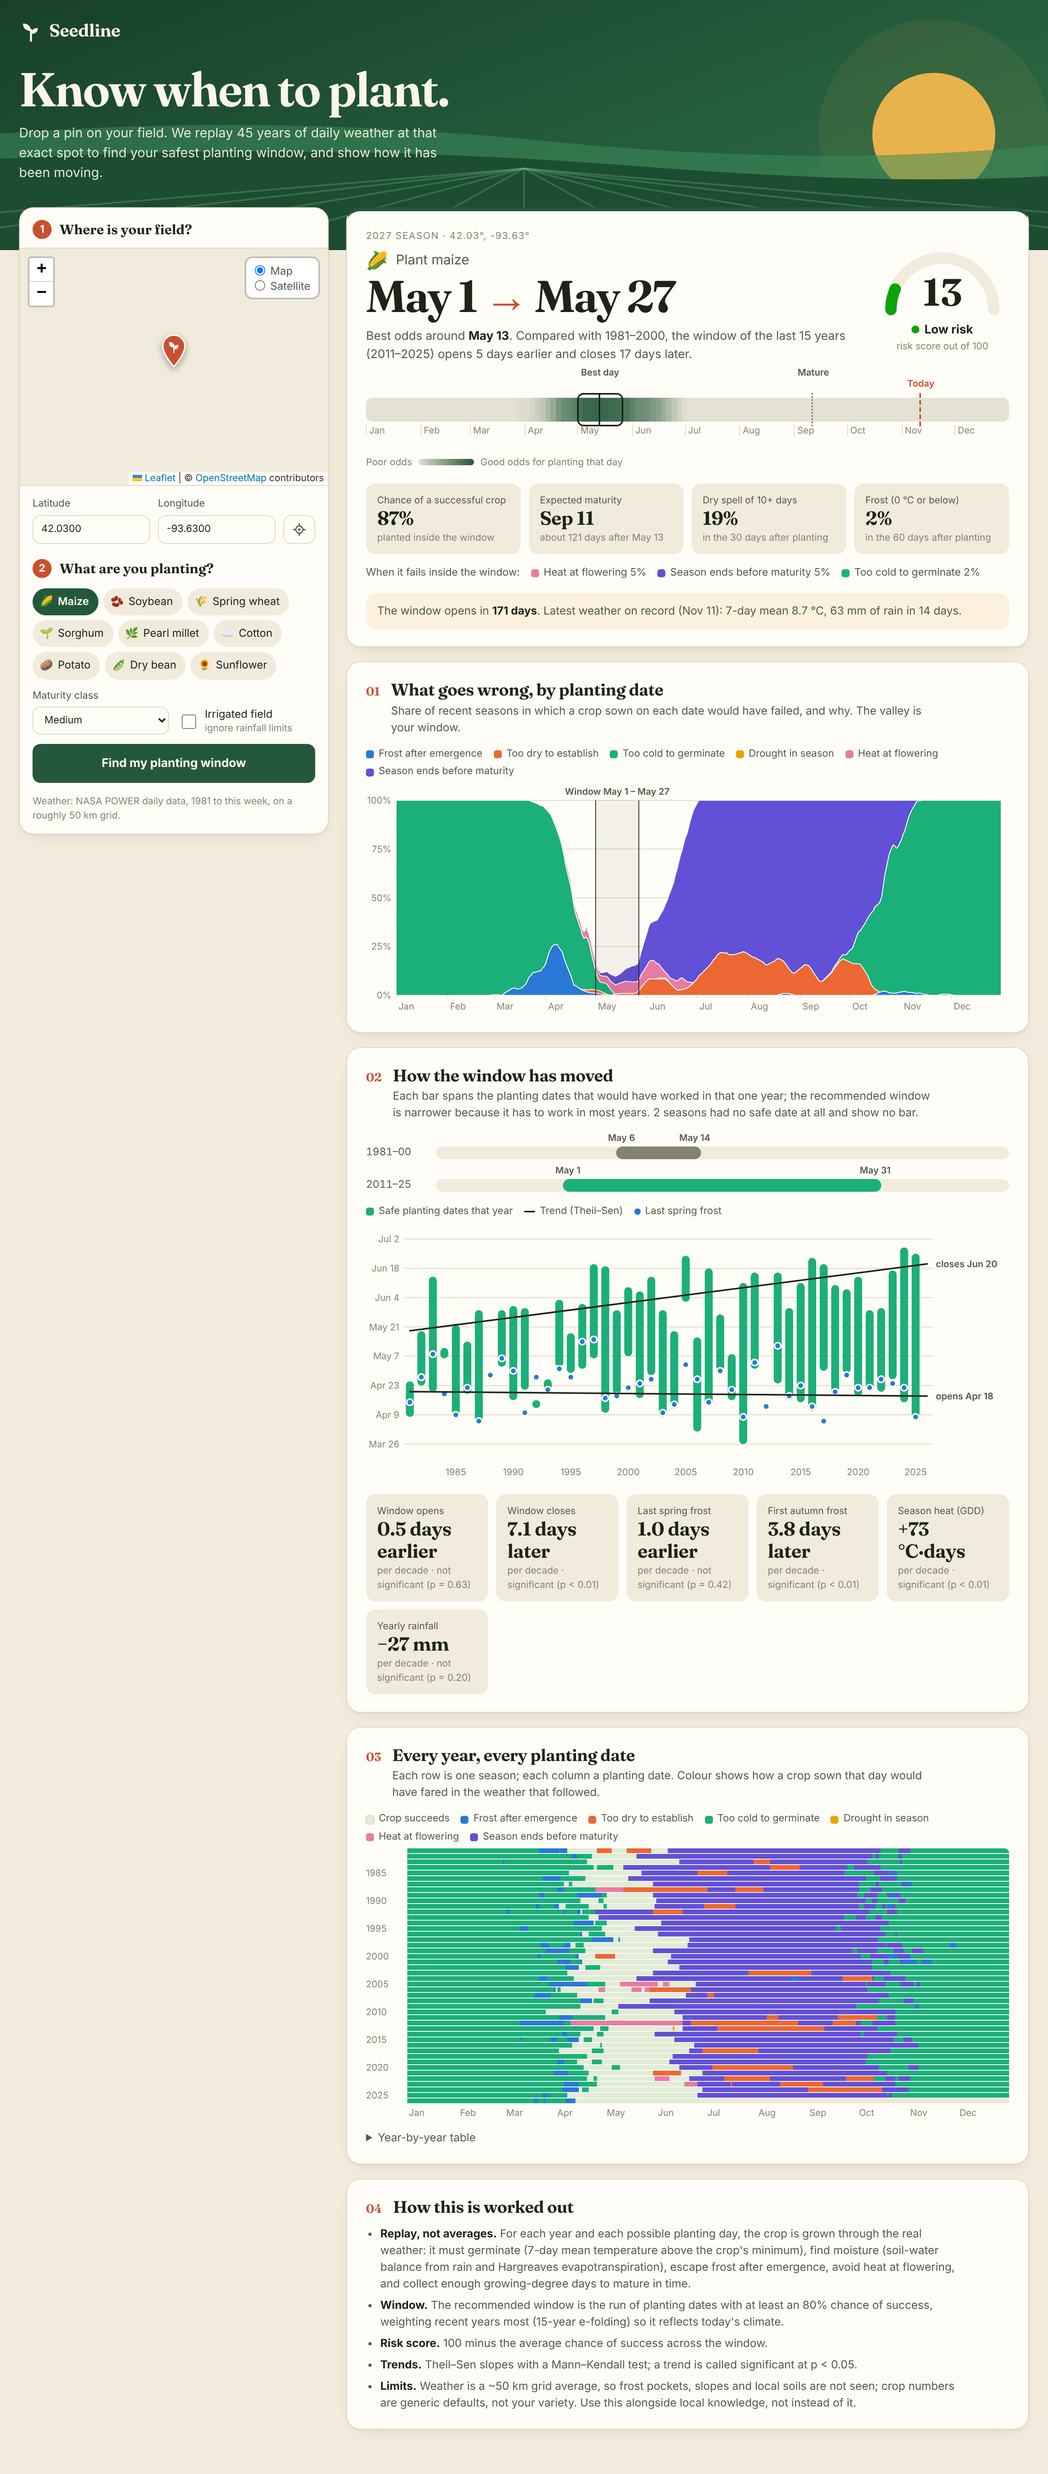
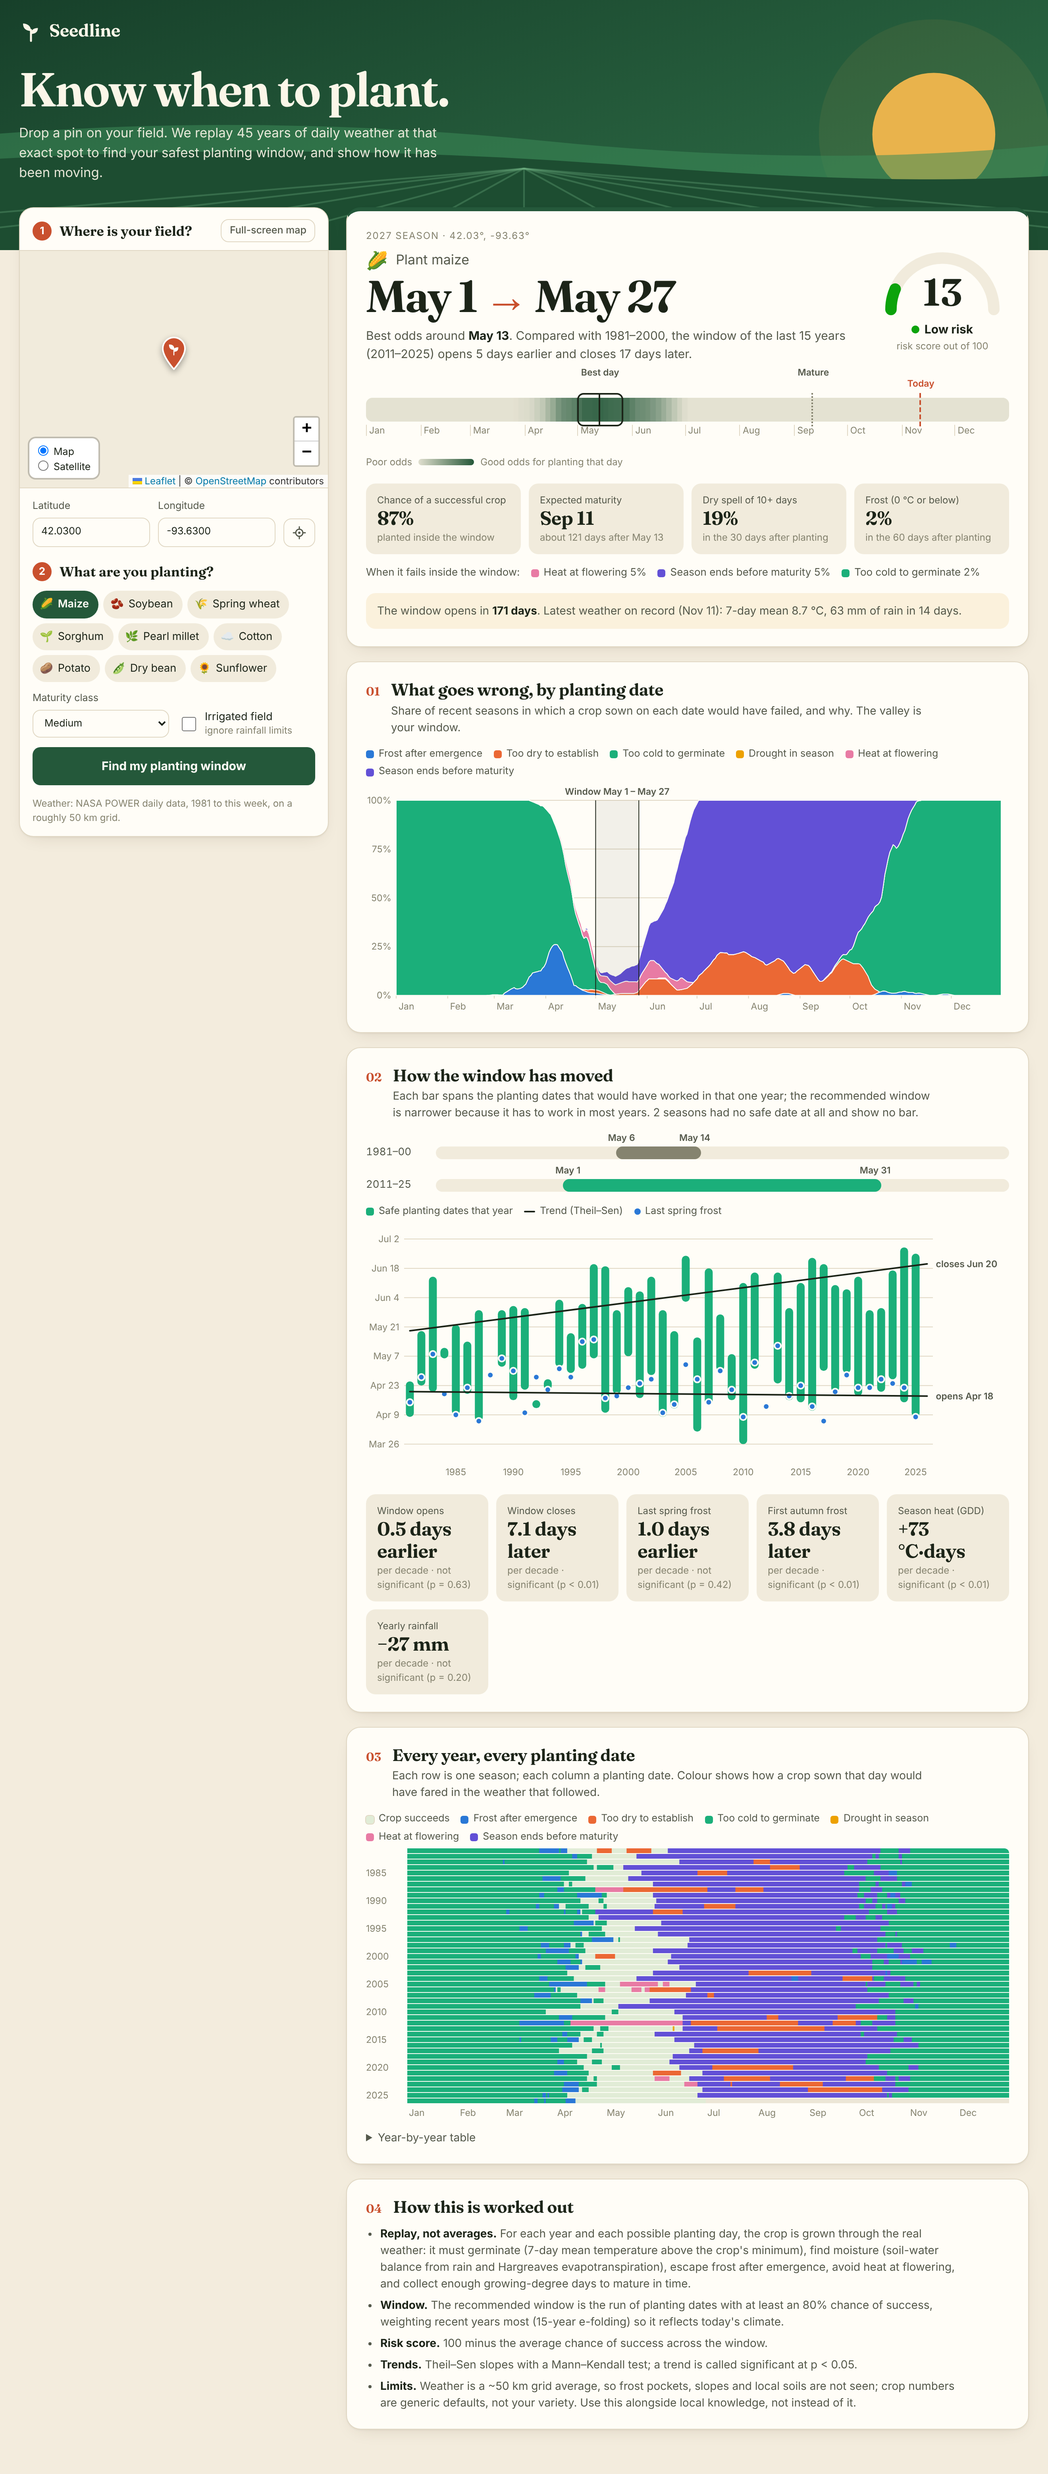
Open on a full-screen map that shrinks into the panel once a pin is dropped
The field picker now fills the screen with a small card for place
search, geolocation and example fields. Dropping a pin runs the analysis
and returns to the normal layout; a Full-screen map button reopens it.

Claude-Session: https://claude.ai/code/session_018tKL4EtHXzPhkCE6Nk1xTU

diff --git a/js/app.js b/js/app.js
@@ -1,8 +1,8 @@
 // Bump ?v= here and in index.html whenever these files change, so browsers
 // never pair a new page with stale cached scripts or styles.
-import { CROPS, MATURITY } from './crops.js?v=2';
-import { fetchDaily } from './power.js?v=2';
-import { parsePower, addWaterBalance, analyze, riskBand, offsetLabel, OUT, SEASON_DAYS } from './analysis.js?v=2';
+import { CROPS, MATURITY } from './crops.js?v=3';
+import { fetchDaily } from './power.js?v=3';
+import { parsePower, addWaterBalance, analyze, riskBand, offsetLabel, OUT, SEASON_DAYS } from './analysis.js?v=3';
 
 const $ = (id) => document.getElementById(id);
 const DAY = 86400000;
@@ -39,7 +39,8 @@ syncChips();
 for (const [k, m] of Object.entries(MATURITY)) $('maturity').add(new Option(m.name, k));
 $('maturity').value = 'medium';
 
-const map = L.map('map', { worldCopyJump: true }).setView([20, 10], 2);
+const map = L.map('map', { worldCopyJump: true, zoomControl: false }).setView([20, 10], 3);
+L.control.zoom({ position: 'bottomright' }).addTo(map);
 const streets = L.tileLayer('https://tile.openstreetmap.org/{z}/{x}/{y}.png', {
   maxZoom: 17,
   attribution: '&copy; <a href="https://www.openstreetmap.org/copyright">OpenStreetMap</a> contributors',
@@ -48,7 +49,7 @@ const satellite = L.tileLayer('https://server.arcgisonline.com/ArcGIS/rest/servi
   maxZoom: 17,
   attribution: 'Imagery &copy; Esri, Maxar, Earthstar Geographics',
 });
-L.control.layers({ Map: streets, Satellite: satellite }, null, { collapsed: false }).addTo(map);
+L.control.layers({ Map: streets, Satellite: satellite }, null, { collapsed: false, position: 'bottomleft' }).addTo(map);
 const pinIcon = L.divIcon({ className: 'pin', html: '<svg viewBox="0 0 32 42" width="32" height="42"><path d="M16 41C16 41 30 25.5 30 15A14 14 0 0 0 2 15C2 25.5 16 41 16 41Z" fill="var(--accent)" stroke="#fff" stroke-width="2"/><path d="M16 23v-8m0 1c0-4-2.5-5.5-5.5-5.5 0 3.5 2 5.500 5.500 5.500Zm0 2.500c0-3 2-4.500 5-4.500 0 3-2 4.500-5 4.500Z" fill="#fff" stroke="#fff" stroke-width="1.200" stroke-linecap="round"/></svg>', iconSize: [32, 42], iconAnchor: [16, 41] });
 let pin = null;
 
@@ -60,19 +61,59 @@ function setPin(lat, lon, { pan = false } = {}) {
   if (pan) map.setView([lat, lon], Math.max(map.getZoom(), 7));
 }
 
-map.on('click', (e) => { setPin(e.latlng.lat, e.latlng.lng); run(); });
-$('controls').addEventListener('submit', (e) => { e.preventDefault(); setPin(+$('lat').value, +$('lon').value, { pan: true }); run(); });
-for (const id of ['maturity', 'irrigated']) $(id).addEventListener('change', () => { if (pin) run(); });
-$('locate').addEventListener('click', () => {
-  if (!navigator.geolocation) return showStatus('Location unavailable', 'This browser cannot share a location. Click the map instead.');
-  navigator.geolocation.getCurrentPosition(
-    (p) => { setPin(p.coords.latitude, p.coords.longitude, { pan: true }); run(); },
-    () => showStatus('Location unavailable', 'Could not read your location. Click the map or type coordinates instead.'),
-  );
+// The map starts as the whole screen so a field is easy to find; once a pin is
+// down it shrinks into the side panel. "Full-screen map" brings it back.
+const picking = () => document.body.classList.contains('picking');
+function setPicking(on) {
+  document.body.classList.toggle('picking', on);
+  $('pickDone').hidden = !pin;
+  if (on) scrollTo(0, 0);
+  map.invalidateSize();
+  if (pin) map.setView(pin.getLatLng(), Math.max(map.getZoom(), on ? 5 : 7), { animate: false });
+}
+/** A location was chosen: analyse it, and leave full-screen once the pin has landed. */
+function choose(lat, lon) {
+  const wasPicking = picking();
+  setPin(lat, lon, { pan: !wasPicking });
+  run();
+  if (wasPicking) setTimeout(() => setPicking(false), 550);
+}
+map.on('click', (e) => choose(e.latlng.lat, e.latlng.lng));
+$('expand').addEventListener('click', () => setPicking(true));
+$('pickDone').addEventListener('click', () => setPicking(false));
+addEventListener('keydown', (e) => { if (e.key === 'Escape' && picking() && pin) setPicking(false); });
+
+// Place search (OpenStreetMap Nominatim): moves the map, the click still picks the field.
+$('search').addEventListener('submit', async (e) => {
+  e.preventDefault();
+  const q = $('q').value.trim();
+  if (!q) return;
+  const msg = $('searchMsg');
+  msg.hidden = false;
+  msg.textContent = 'Searching…';
+  try {
+    const res = await fetch(`https://nominatim.openstreetmap.org/search?format=json&limit=1&q=${encodeURIComponent(q)}`);
+    const hit = (await res.json())[0];
+    if (!hit) { msg.textContent = `Nothing found for “${q}”. Try a nearby town.`; return; }
+    const [s, n, w, e2] = hit.boundingbox.map(Number);
+    map.fitBounds([[s, w], [n, e2]], { maxZoom: 12 });
+    msg.textContent = 'Now click your field on the map.';
+  } catch {
+    msg.textContent = 'Search is unavailable right now. Zoom the map instead.';
+  }
 });
+$('controls').addEventListener('submit', (e) => { e.preventDefault(); choose(+$('lat').value, +$('lon').value); });
+for (const id of ['maturity', 'irrigated']) $(id).addEventListener('change', () => { if (pin) run(); });
+document.querySelectorAll('.locate').forEach((btn) => btn.addEventListener('click', () => {
+  const fail = (text) => { if (picking()) { $('searchMsg').hidden = false; $('searchMsg').textContent = text; } else showStatus('Location unavailable', text); };
+  if (!navigator.geolocation) return fail('This browser cannot share a location. Click the map instead.');
+  navigator.geolocation.getCurrentPosition(
+    (p) => choose(p.coords.latitude, p.coords.longitude),
+    () => fail('Could not read your location. Click the map instead.'),
+  );
+}));
 
 function showStatus(title, body, kind = 'info') {
-  $('welcome').hidden = true;
   const el = $('status');
   el.hidden = false;
   el.className = `status ${kind}`;
@@ -83,8 +124,8 @@ document.querySelectorAll('[data-example]').forEach((b) => b.addEventListener('c
   const [lat, lon, crop] = b.dataset.example.split(',');
   $('crop').value = crop;
   syncChips();
-  setPin(+lat, +lon, { pan: true });
-  run();
+  if (picking()) map.setView([+lat, +lon], 6, { animate: false });
+  choose(+lat, +lon);
 }));
 
 // ---------------------------------------------------------------------- run
@@ -496,6 +537,7 @@ if (h.length >= 3 && Number.isFinite(+h[0]) && Number.isFinite(+h[1]) && CROPS[h
   syncChips();
   if (MATURITY[h[3]]) $('maturity').value = h[3];
   $('irrigated').checked = h[4] === '1';
+  setPicking(false);
   setPin(+h[0], +h[1], { pan: true });
   run();
 }

diff --git a/css/style.css b/css/style.css
@@ -80,13 +80,42 @@ h1, h2, h3, p { margin: 0; }
 .hero h1 { font-family: var(--display); font-weight: 650; font-size: clamp(34px, 5.4vw, 60px); line-height: 1.02; letter-spacing: -0.025em; margin-top: 22px; text-wrap: balance; }
 .tagline { max-width: 52ch; margin-top: 12px; font-size: 16.5px; opacity: .9; text-wrap: pretty; }
 
+/* ---------------------------------------------- full-screen field picker */
+.picker { display: none; }
+body.picking { overflow: hidden; }
+body.picking .panel { position: static; }
+body.picking #map { position: fixed; inset: 0; height: auto; z-index: 500; border: 0; }
+body.picking .picker { display: block; position: fixed; z-index: 600; top: 16px; left: 16px; width: min(400px, calc(100vw - 32px)); pointer-events: none; }
+.pickcard { pointer-events: auto; background: var(--surface); border: 1px solid var(--line); border-radius: 18px; padding: 16px 18px; box-shadow: 0 10px 40px -10px rgb(0 0 0 / .45); animation: rise .5s both; display: grid; gap: 10px; }
+.pickcard .brand { color: var(--brand); font-size: 18px; }
+.pickcard h2 { font-size: 26px; }
+.pickcard p { color: var(--text-2); font-size: 14px; }
+.search { display: grid; grid-template-columns: 1fr auto; gap: 8px; }
+.search input { font: inherit; color: var(--text); background: var(--surface); border: 1px solid var(--line); border-radius: 10px; padding: 9px 12px; min-width: 0; }
+.search .primary { padding: 9px 16px; }
+.searchmsg { font-size: 13px !important; color: var(--accent) !important; }
+.pickrow { display: flex; flex-wrap: wrap; gap: 8px; }
+.pickex { display: flex; flex-wrap: wrap; align-items: center; gap: 6px; padding-top: 10px; border-top: 1px solid var(--line); font-size: 13px; color: var(--text-3); }
+.pickex button { padding: 5px 10px; border-radius: 999px; font-size: 13px; background: var(--surface-2); border-color: transparent; }
+.pickex button:hover { border-color: var(--brand); }
+@media (max-width: 560px) {
+  body.picking .picker { top: 10px; left: 10px; width: calc(100vw - 20px); }
+  .pickcard { padding: 12px 14px; gap: 8px; }
+  .pickcard h2 { font-size: 21px; }
+  .pickcard > p:first-of-type { display: none; }
+  .pickex { flex-wrap: nowrap; overflow-x: auto; scrollbar-width: none; }
+  .pickex button, .pickex span { flex: none; }
+}
+
 /* -------------------------------------------------------------- layout */
 .layout { position: relative; display: grid; grid-template-columns: minmax(310px, 390px) minmax(0, 1fr); gap: 22px; padding: 0 24px 56px; margin: -54px auto 0; max-width: 1320px; align-items: start; }
 .panel { position: sticky; top: 14px; background: var(--surface); border: 1px solid var(--line); border-radius: 18px; overflow: hidden; box-shadow: var(--shadow); }
+.step .ghost { margin-left: auto; font: 500 12.5px system-ui, sans-serif; padding: 6px 10px; }
 .step { display: flex; align-items: center; gap: 10px; padding: 14px 16px 10px; font-family: var(--display); font-weight: 650; font-size: 17px; }
 .step.inline { padding: 6px 0 0; }
 .step b { display: grid; place-items: center; width: 24px; height: 24px; border-radius: 50%; background: var(--accent); color: #fff; font: 700 13px system-ui, sans-serif; }
-#map { height: 300px; background: var(--surface-2); cursor: crosshair; border-block: 1px solid var(--line); }
+/* position must be explicit: Leaflet only adds it when the map is not fixed at start-up */
+#map { position: relative; height: 300px; background: var(--surface-2); cursor: crosshair; border-block: 1px solid var(--line); }
 .pin { filter: drop-shadow(0 3px 4px rgb(0 0 0 / .35)); animation: drop .45s cubic-bezier(.2, 1.4, .4, 1); }
 @keyframes drop { from { translate: 0 -26px; opacity: 0; } }
 .leaflet-control-layers { border-radius: 10px !important; font: 12.5px system-ui, sans-serif; background: #fff; color-scheme: light; }
@@ -117,7 +146,7 @@ button:focus-visible, input:focus-visible, select:focus-visible { outline: 2px s
 /* ------------------------------------------------------------- results */
 .results { display: grid; gap: 18px; min-width: 0; }
 #output { display: grid; gap: 18px; min-width: 0; }
-.card, .status, .welcome { background: var(--surface); border: 1px solid var(--line); border-radius: 18px; padding: 22px 24px; min-width: 0; box-shadow: var(--shadow); }
+.card, .status { background: var(--surface); border: 1px solid var(--line); border-radius: 18px; padding: 22px 24px; min-width: 0; box-shadow: var(--shadow); }
 #output > .card { animation: rise .5s both; }
 #output > .card:nth-child(2) { animation-delay: .07s; } #output > .card:nth-child(3) { animation-delay: .14s; }
 #output > .card:nth-child(4) { animation-delay: .21s; } #output > .card:nth-child(5) { animation-delay: .28s; }
@@ -126,14 +155,6 @@ h2 { font-family: var(--display); font-weight: 650; font-size: 21px; letter-spac
 .sub { color: var(--text-2); font-size: 14px; margin-top: 3px; max-width: 78ch; }
 .cardhead { display: flex; gap: 14px; align-items: baseline; }
 .cardhead .num { font-family: var(--display); font-size: 15px; color: var(--accent); font-weight: 650; flex: none; }
-
-.welcome h2 { font-size: 26px; }
-.welcome p { color: var(--text-2); margin-top: 6px; max-width: 64ch; }
-.examples { display: grid; grid-template-columns: repeat(auto-fill, minmax(170px, 1fr)); gap: 10px; margin-top: 18px; }
-.examples button { display: grid; grid-template-columns: auto 1fr; column-gap: 10px; text-align: left; padding: 12px 14px; border-radius: 14px; background: var(--surface-2); border-color: transparent; color: var(--text-2); font-size: 13px; transition: transform .15s, box-shadow .15s, border-color .15s; }
-.examples button span { grid-row: span 2; font-size: 26px; align-self: center; }
-.examples button b { color: var(--text); font-size: 15px; }
-.examples button:hover { transform: translateY(-2px); border-color: var(--brand); box-shadow: var(--shadow); }
 
 .status { text-align: center; padding: 44px 24px; }
 .status p { color: var(--text-2); margin: 6px auto 0; max-width: 56ch; }
@@ -240,7 +261,7 @@ th { position: sticky; top: 0; background: var(--surface-2); font-weight: 600; c
   .panel { position: static; }
   #map { height: 260px; }
   .heroin { padding: 18px 16px 80px; }
-  .card, .welcome { padding: 18px 16px; }
+  .card { padding: 18px 16px; }
   .rechead { grid-template-columns: minmax(0, 1fr); }
   .gaugebox { justify-self: start; display: grid; grid-template-columns: 120px auto; align-items: center; column-gap: 14px; width: auto; text-align: left; }
   .gaugebox .gauge { grid-row: span 2; }

diff --git a/index.html b/index.html
@@ -9,9 +9,37 @@
   <link rel="preconnect" href="https://fonts.gstatic.com" crossorigin>
   <link rel="stylesheet" href="https://fonts.googleapis.com/css2?family=Fraunces:opsz,wght@9..144,500;9..144,650&display=swap">
   <link rel="stylesheet" href="vendor/leaflet/leaflet.css">
-  <link rel="stylesheet" href="css/style.css?v=2">
+  <link rel="stylesheet" href="css/style.css?v=3">
 </head>
-<body>
+<body class="picking">
+  <div id="picker" class="picker" aria-label="Choose your field">
+    <div class="pickcard">
+      <div class="brand">
+        <svg viewBox="0 0 24 24" width="24" height="24" aria-hidden="true"><path d="M12 22V11" stroke="currentColor" stroke-width="2" stroke-linecap="round" fill="none"/><path d="M12 12C12 7 8.5 4.5 4 4.5c0 5 3 7.5 8 7.5ZM12 15c0-4 2.800-6 7-6 0 4-2.600 6-7 6Z" fill="currentColor"/></svg>
+        <span>Seedline</span>
+      </div>
+      <h2>Where is your field?</h2>
+      <p>Zoom in and click the map to drop a pin. We will work out when to plant there.</p>
+      <form id="search" class="search" role="search">
+        <input id="q" type="search" placeholder="Search a town or region" aria-label="Search a town or region" autocomplete="off">
+        <button type="submit" class="primary">Go</button>
+      </form>
+      <p id="searchMsg" class="searchmsg" hidden></p>
+      <div class="pickrow">
+        <button type="button" class="ghost locate">Use my location</button>
+        <button type="button" id="pickDone" class="ghost" hidden>Keep current pin</button>
+      </div>
+      <div class="pickex">
+        <span>Or try</span>
+        <button type="button" data-example="42.03,-93.63,maize">🌽 Iowa</button>
+        <button type="button" data-example="13.5,2.1,millet">🌿 Niger</button>
+        <button type="button" data-example="-15.4,28.3,maize">🌽 Zambia</button>
+        <button type="button" data-example="52.1,-106.6,wheat">🌾 Saskatchewan</button>
+        <button type="button" data-example="-33.9,-60.6,soybean">🫘 Argentina</button>
+        <button type="button" data-example="30.9,75.85,maize">🌽 Punjab</button>
+      </div>
+    </div>
+  </div>
   <header class="hero">
     <svg class="field" viewBox="0 0 1200 220" preserveAspectRatio="xMidYMax slice" aria-hidden="true">
       <circle class="sun" cx="960" cy="118" r="54"/>
@@ -35,13 +63,13 @@
 
   <main class="layout">
     <section class="panel" aria-label="Field and crop">
-      <div class="step"><b>1</b> Where is your field?</div>
+      <div class="step"><b>1</b> Where is your field? <button type="button" id="expand" class="ghost">Full-screen map</button></div>
       <div id="map" role="application" aria-label="Map. Click to drop a pin on your field."></div>
       <form id="controls" class="controls">
         <div class="row coords">
           <label>Latitude <input id="lat" type="number" step="0.0001" min="-90" max="90" inputmode="decimal" required></label>
           <label>Longitude <input id="lon" type="number" step="0.0001" min="-180" max="180" inputmode="decimal" required></label>
-          <button type="button" id="locate" class="ghost" title="Use my location" aria-label="Use my location">
+          <button type="button" class="ghost locate" title="Use my location" aria-label="Use my location">
             <svg viewBox="0 0 24 24" width="18" height="18" aria-hidden="true"><circle cx="12" cy="12" r="6" fill="none" stroke="currentColor" stroke-width="2"/><circle cx="12" cy="12" r="2" fill="currentColor"/><path d="M12 2v4M12 18v4M2 12h4M18 12h4" stroke="currentColor" stroke-width="2" stroke-linecap="round"/></svg>
           </button>
         </div>
@@ -58,18 +86,6 @@
     </section>
 
     <section class="results" aria-live="polite">
-      <div id="welcome" class="welcome">
-        <h2>Start with a pin, or try a field we know</h2>
-        <p>Every planting date in every year since 1981 gets replayed against the weather that actually followed. You get a window, a risk score, and the reasons it fails.</p>
-        <div class="examples">
-          <button type="button" data-example="42.03,-93.63,maize"><span aria-hidden="true">🌽</span><b>Maize</b>Central Iowa, USA</button>
-          <button type="button" data-example="13.5,2.1,millet"><span aria-hidden="true">🌿</span><b>Pearl millet</b>Niamey, Niger</button>
-          <button type="button" data-example="-15.4,28.3,maize"><span aria-hidden="true">🌽</span><b>Maize</b>Lusaka, Zambia</button>
-          <button type="button" data-example="52.1,-106.6,wheat"><span aria-hidden="true">🌾</span><b>Spring wheat</b>Saskatchewan, Canada</button>
-          <button type="button" data-example="-33.9,-60.6,soybean"><span aria-hidden="true">🫘</span><b>Soybean</b>Pampas, Argentina</button>
-          <button type="button" data-example="30.9,75.85,maize"><span aria-hidden="true">🌽</span><b>Maize</b>Punjab, India</button>
-        </div>
-      </div>
       <div id="status" class="status" hidden></div>
       <div id="output" hidden>
         <article class="card rec" id="rec"></article>
@@ -114,6 +130,6 @@
   <div id="tip" class="tip" hidden></div>
 
   <script src="vendor/leaflet/leaflet.js"></script>
-  <script type="module" src="js/app.js?v=2"></script>
+  <script type="module" src="js/app.js?v=3"></script>
 </body>
 </html>
